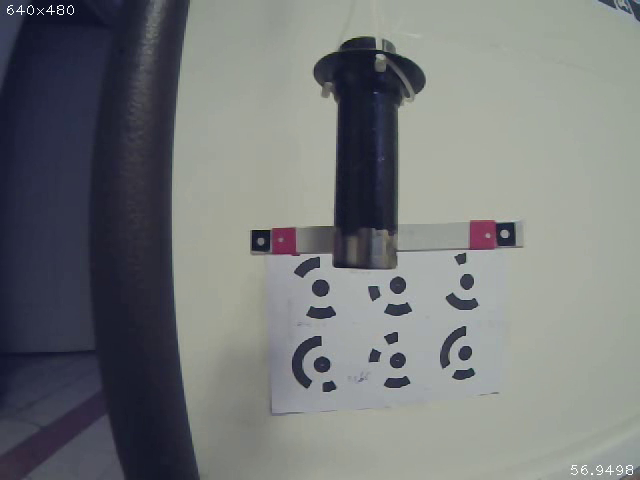
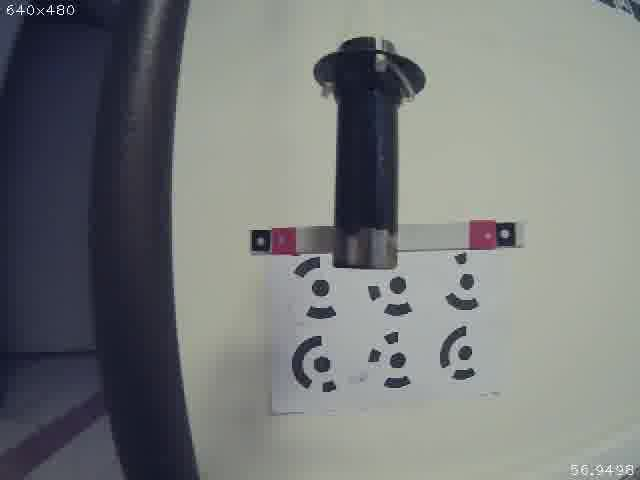
update

diff --git a/yolo_real_dataset_generator.py b/yolo_real_dataset_generator.py
@@ -27,6 +27,18 @@ IMAGE_PAIRS = [
         "left": "./left_frame001.jpg",
         "right": "./right_frame001.jpg",
         "left_points": {
+            "point0": (240, 298),  # (row, col)
+            "point1": (234, 502)
+        },
+        "right_points": {
+            "point0": (240, 130),
+            "point1": (232, 305)
+        }
+    },
+            {
+        "left": "./left_frame011.jpg",
+        "right": "./right_frame011.jpg",
+        "left_points": {
             "point0": (240, 281),  # (row, col)
             "point1": (236, 488)
         },
